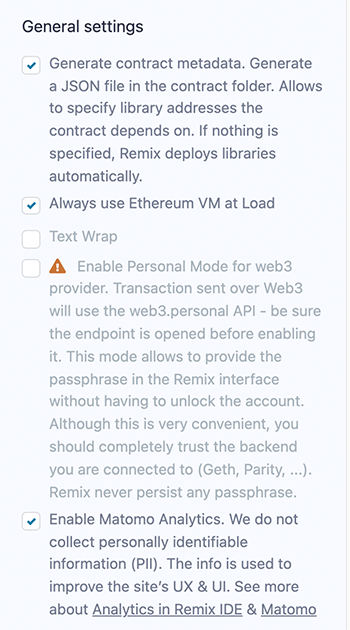
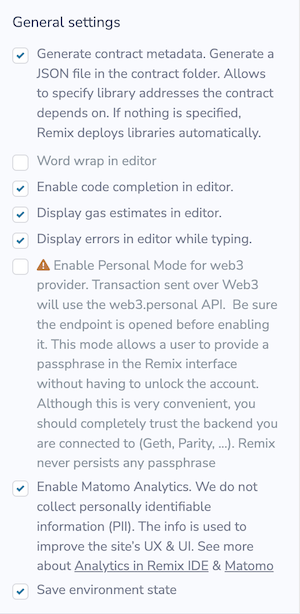
update to setting and community

Changed region(s): [[0.03, 0.0309, 0.93, 0.9902], [0.06, 0.9593, 0.09, 0.9902], [0.06, 0.4332, 0.09, 0.4642]]

diff --git a/docs/settings.md b/docs/settings.md
@@ -9,11 +9,29 @@ The Reset button at the top of the Setting panel will reset all of the settings 
 
 ![](images/a-settings-general.png)
 
--  Generate contract metadata is used for deploying with libraries.  See our blog post on the subject: [Deploying with Libraries](https://medium.com/remix-ide/deploying-with-libraries-on-remix-ide-24f5f7423b60?sk=68f9c2bf318e85e129e46fe44683a730)
-- Always use Remix VM at Load: will make the Remix VM the selected **environment** when Remix loads.
--  Text wrap: controls if the text in the editor should be wrapped.
--  Personal mode: can be used when one is connecting to a **local node**.  It is used to have Remix temporarily save the passphrase - so that you don't need to **unlock** the account in GETH.  Remix will not persist the passphrase - so if you refresh your browser the passphrase will be gone.
--  Matomo Analytics: This is where you can turn off and on your approval for us to use Matomo.  We do not collect any personally identifiable information (PII) and our reports are public.  See our [blog post on the subject](https://medium.com/remix-ide/help-us-improve-remix-ide-66ef69e14931?source=friends_link&sk=cf9c62fbe1270543eb4bd912e567e2d6).
+-  **Generate contract metadata** is used for deploying with libraries.  See our blog post on the subject: [Deploying with Libraries](https://medium.com/remix-ide/deploying-with-libraries-on-remix-ide-24f5f7423b60?sk=68f9c2bf318e85e129e46fe44683a730)
+- **Always use Remix VM at Load** will make the Remix VM the selected **environment** when Remix loads.
+- **Word wrap** controls if word wrap is enabled in the Editor.
+- **Enable code completion in editor** controls code completion. Autocompleting Solidity code happens when you type in the Editor. This option has the Compiler run in the background. For more information about autocomplete, see the [Editor docs](solidity_editor.html#autocomplete). 
+- **Display gas estimates in editor** controls if gas estimates are shown. The gas estimates only works when a compilation is successful.
+- **Display errors in editor while typing** 
+-  **Personal mode** can be used when one is connecting to a **local node**.  It is used to have Remix temporarily save the passphrase - so that you don't need to **unlock** the account in GETH.  Remix will not persist the passphrase - so if you refresh your browser the passphrase will be gone.
+-  **Matomo Analytics** is our "opt-in" analytics platform. The option to turn on Matomo is offered when you first come to Remix. You can disable or enable Matomo here in the Settings panel.  We do not collect any personally identifiable information (PII) and our reports are public.  See our [blog post on the subject](https://medium.com/remix-ide/help-us-improve-remix-ide-66ef69e14931?source=friends_link&sk=cf9c62fbe1270543eb4bd912e567e2d6).
+- **Save environment state** controls if state of the Remix VM (Remix's simulated blockchain) is saved in a file in the File Explorer.  With this option enabled, the Remix VM's state will be saved, so if the browser is closed, the state of the VM will be preserved when you return.  This is true as long as the storage in your browser does not get cleared or  corrupted. 
+
+### Solidity Copilot Alpha
+![](images/a-settings-ai1.png)
+
+These settings are primarily for the code completion functions of Remix's AI tool, Solidity Copilot.  See this [doc page](ai.html) for more information about AI in Remix. 
+
+There are two settings for Solidity Copilot:
+
+#### Maximum words 
+Max words sets the maximum number of words that will be returned. The fewer the words, the more likely that a context-accurate answer will be returned and the quicker the response time.
+
+#### Temperature
+Temperature is an advanced setting. As the setting is increased, the range of possible answers will increase. A higher number is more likely to return a relevant answer.
+
 
 ### Github Access Token
 
@@ -23,11 +41,16 @@ When performing Git operations on Github and when creating GISTs, it may be nece
 
 ### Etherscan Access Token
 
-You need to input your Etherscan access token when debugging verified contracts with the Remix Debugger.  When verifying a contract with the Etherscan plugin, you need to put the API key in that plugin and not in the Settings panel.   
+When debugging verified contracts with the Remix Debugger, it is necessary to input your Etherscan access token in the Settings panel.  Whereas, when verifying a contract with the Contract Verification - Etherscan plugin, the API key is input there and not in the Settings panel.   
 
 Click [here](https://etherscan.io/myapikey) to get your Etherscan API key.
 
 ![](images/a-settings-etherscan.png)
+
+### Sindri Settings
+![](images/a-settings-sindri.png)
+
+The access token is used to compile ZKP circuits and generate proofs with Sindri.  To generate the token go to [Sindri](https://sindri.app).
 
 ### Swarm Settings
 
@@ -55,3 +78,6 @@ Other options are to:
 Choose themes here.  The Dark & Light themes are the themes that the Remix team actively maintains.
 
 ![](images/a-settings-themes.png)
+
+### Language
+The Remix user interface is available in a number of languages.  If you don't see your prefered language,  please join our [translation platform](https://crowdin.com/project/remix-ui).  Similarly, if you don't see this documentation in your language, please help us out on our platform for [translating documentation](https://crowdin.com/project/remix-translation).

diff --git a/docs/community.md b/docs/community.md
@@ -1,14 +1,10 @@
 Community Support
-=======================
+=================
 
-We know that blockchain ecosystem is very new and that lots of information is scattered around the web.
-That is why we created a community support channel where we and other users try to answer your questions if
-you get stuck using Remix. Please, join [the community](https://gitter.im/ethereum/remix) and ask for help.
+Do you have questions about Remix.  Join our [Discord](https://discord.gg/nfv6ZYjAeP) server and get some help!
 
-For anyone who is interested in developing a custom plugin for Remix or who wants to contribute to the codebase,
-we opened a [contributors' channel](https://gitter.im/ethereum/remix-dev) especially for developers working on Remix tools.
+We post announcements and tips on [Twitter](https://twitter.com/ethereumremix).
 
-We would kindly ask you to respect the space and to use it for
-getting help with your work and the developers' channel for discussions related to working on Remix codebase. If you have
-ideas for collaborations or you want to promote your project, try to find some more appropriate channels to do so. Or you can contact
-the main contributors directly on Gitter or Twitter.
+For those interested in contributing to our codebase, make a PR to the [Remix Project repo](https://github.com/ethereum/remix-project/). 
+
+If you'd like to make a plugin in developing a plugin for Remix, check this [guide](https://remix-plugins-directory.readthedocs.io/en/latest/).

diff --git a/docs/ai.md b/docs/ai.md
@@ -29,7 +29,7 @@ In the Right-click menu, select the options **Explain the function** and **Gener
 The "Explain this code" option in the Editor's Right-click menu can be triggered with, or without, highlighting a block of code.
 
 ## Editor: Code Completion
-With the Soldity Copilot switch on, just start typing. When you put a space after a word, the Copilot will make a suggestion.  
+With the Solidity Copilot switch on, just start typing. When you put a space after a word, the Copilot will make a suggestion.  
 
 **NOTE: the suggestion will take into account everything that preceded it in this contract.**
 
